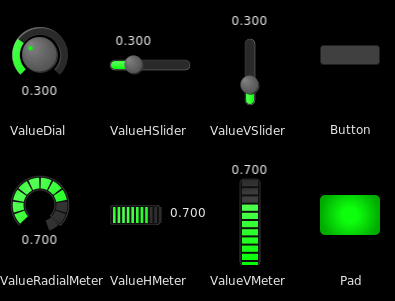
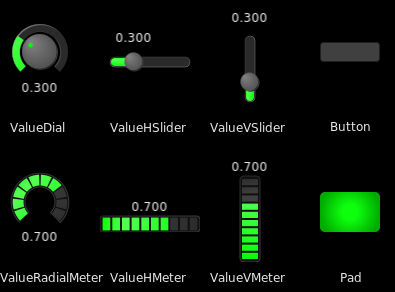
Multiple fixes in meter widgets * Display ValueHMeter value on top (similiar to ValueHSlider) * Fix addition of rounded doubles bug * More logic in displayed steps (0.0: no step visible) * Demos adapted * New screenshots

diff --git a/BWidgets/Draws/Ergo/drawVMeter.hpp b/BWidgets/Draws/Ergo/drawVMeter.hpp
@@ -24,16 +24,16 @@
 #include "../../../BStyles/Types/Color.hpp"
 
 /**
- *  @brief  Draws a segmented two colors vertical pseudo 3d bar in a Cairo
- *  context. 
+ *  @brief  Draws a segmented two colors vertical pseudo 3d meter bar in a
+ *  Cairo context. 
  *  @param cr  Cairo context.
  *  @param x0  X position.
  *  @param y0  Y position.
  *  @param width  Bar width.
  *  @param height  Bar height.
- *  @param min  Start of activated (highlighted) part of the arc. Relative
+ *  @param min  Start of activated (highlighted) part of the meter. Relative
  *  value [0..1].
- *  @param max  End of activated (highlighted) part of the arc. Relative
+ *  @param max  End of activated (highlighted) part of the meter. Relative
  *  value [0..1].
  *  @param step  Size of each segment.
  *  @param loColor  RGBA color for the low values of the activated part.
@@ -46,7 +46,7 @@ inline void drawVMeter    (cairo_t* cr, const double x0, const double y0, const 
                              const BStyles::Color loColor, const BStyles::Color hiColor, std::function<double(const double &)> gradient, 
                              const BStyles::Color bgColor)
 {
-
+    const int nrSteps = (step > 0 ? std::ceil (1.0 / step) : 10);
     const double dy = (height - 0.2 * width) * step;
     const BStyles::Color fgHi = loColor.illuminate (BStyles::Color::illuminated);
     const BStyles::Color fgLo = loColor;
@@ -88,9 +88,10 @@ inline void drawVMeter    (cairo_t* cr, const double x0, const double y0, const 
         cairo_pattern_add_color_stop_rgba (bgPat, 0.25, CAIRO_RGBA(bgHi));
         cairo_pattern_add_color_stop_rgba (bgPat, 1, CAIRO_RGBA(bgLo));
 
-        for (double v = 0; v < 1.0; v += step)
+        for (int i = 0; i < nrSteps; ++i)
         {
-            if ((v >= min) && ( v <= max)) 
+            const double v = static_cast<double>(i) / static_cast<double>(nrSteps);
+            if ((v >= min) && (v < max)) 
             {
                 if ((fgHi != hiHi) || (fgLo != hiLo))
                 {
@@ -122,8 +123,8 @@ inline void drawVMeter    (cairo_t* cr, const double x0, const double y0, const 
 
             const double y = v * (height - 0.2 * width);
 
-            if (dy < 3.0) cairo_rectangle (cr, x0 + 0.1 * width , y0 + height - 0.1 * width - y, width - 0.2 * width, dy);
-            else cairo_rectangle (cr, x0 + 0.1 * width, y0 + height - 0.1 * width - y - 1.0, width - 0.2 * width, dy - 2.0);
+            if (dy < 3.0) cairo_rectangle (cr, x0 + 0.1 * width , y0 + height - 0.1 * width - y - dy, width - 0.2 * width, dy);
+            else cairo_rectangle (cr, x0 + 0.1 * width, y0 + height - 0.1 * width - y - dy + 1.0, width - 0.2 * width, dy - 2.0);
             cairo_fill (cr);
         }
 

diff --git a/BWidgets/Draws/Oops/drawVMeter.hpp b/BWidgets/Draws/Oops/drawVMeter.hpp
@@ -30,9 +30,9 @@
  *  @param y0  Y position.
  *  @param width  Bar width.
  *  @param height  Bar height.
- *  @param min  Start of activated (highlighted) part of the arc. Relative
+ *  @param min  Start of activated (highlighted) part of the meter. Relative
  *  value [0..1].
- *  @param max  End of activated (highlighted) part of the arc. Relative
+ *  @param max  End of activated (highlighted) part of the meter. Relative
  *  value [0..1].
  *  @param step  Size of each segment.
  *  @param loColor  RGBA color for the low values of the activated part.
@@ -45,7 +45,7 @@ inline void drawVMeter    (cairo_t* cr, const double x0, const double y0, const 
                              const BStyles::Color loColor, const BStyles::Color hiColor, std::function<double(const double &)> gradient, 
                              const BStyles::Color bgColor)
 {
-
+    const int nrSteps = (step > 0 ? std::ceil (1.0 / step) : 10);
     const double dy = (height - 0.2 * width) * step;
     const BStyles::Color fgHi = loColor.illuminate (BStyles::Color::illuminated);
     const BStyles::Color fgLo = loColor;
@@ -68,9 +68,10 @@ inline void drawVMeter    (cairo_t* cr, const double x0, const double y0, const 
         cairo_pattern_add_color_stop_rgba (bgPat, 0.25, CAIRO_RGBA(bgHi));
         cairo_pattern_add_color_stop_rgba (bgPat, 1, CAIRO_RGBA(bgLo));
 
-        for (double v = 0; v < 1.0; v += step)
+        for (int i = 0; i < nrSteps; ++i)
         {
-            if ((v >= min) && ( v <= max)) 
+            const double v = static_cast<double>(i) / static_cast<double>(nrSteps);
+            if ((v >= min) && (v < max)) 
             {
                 if ((fgHi != hiHi) || (fgLo != hiLo))
                 {
@@ -102,8 +103,8 @@ inline void drawVMeter    (cairo_t* cr, const double x0, const double y0, const 
 
             const double y = v * (height - 0.2 * width);
 
-            if (dy < 3.0) cairo_rectangle (cr, x0 + 0.1 * width , y0 + height - 0.1 * width - y, width - 0.2 * width, dy);
-            else cairo_rectangle (cr, x0 + 0.1 * width, y0 + height - 0.1 * width - y - 1.0, width - 0.2 * width, dy - 2.0);
+            if (dy < 3.0) cairo_rectangle (cr, x0 + 0.1 * width , y0 + height - 0.1 * width - y - dy, width - 0.2 * width, dy);
+            else cairo_rectangle (cr, x0 + 0.1 * width, y0 + height - 0.1 * width - y - dy + 1.0, width - 0.2 * width, dy - 2.0);
             cairo_fill (cr);
         }
 

diff --git a/BWidgets/Draws/Ergo/drawHMeter.hpp b/BWidgets/Draws/Ergo/drawHMeter.hpp
@@ -24,16 +24,16 @@
 #include "../../../BStyles/Types/Color.hpp"
 
 /**
- *  @brief  Draws a segmented two colors horizontal pseudo 3d bar in a Cairo
- *  context. 
+ *  @brief  Draws a segmented two colors horizontal pseudo 3d meter bar in a
+ *  Cairo context. 
  *  @param cr  Cairo context.
  *  @param x0  X position.
  *  @param y0  Y position.
  *  @param width  Bar width.
  *  @param height  Bar height.
- *  @param min  Start of activated (highlighted) part of the arc. Relative
+ *  @param min  Start of activated (highlighted) part of the meter. Relative
  *  value [0..1].
- *  @param max  End of activated (highlighted) part of the arc. Relative
+ *  @param max  End of activated (highlighted) part of the meter. Relative
  *  value [0..1].
  *  @param step  Size of each segment.
  *  @param loColor  RGBA color for the low values of the activated part.
@@ -46,7 +46,7 @@ inline void drawHMeter    (cairo_t* cr, const double x0, const double y0, const 
                              const BStyles::Color loColor, const BStyles::Color hiColor, std::function<double(const double &)> gradient, 
                              const BStyles::Color bgColor)
 {
-
+    const int nrSteps = (step > 0 ? std::ceil (1.0 / step) : 10);
     const double dx = (width - 0.2 * height) * step;
     const BStyles::Color fgHi = loColor.illuminate (BStyles::Color::illuminated);
     const BStyles::Color fgLo = loColor;
@@ -88,9 +88,10 @@ inline void drawHMeter    (cairo_t* cr, const double x0, const double y0, const 
         cairo_pattern_add_color_stop_rgba (bgPat, 0.25, CAIRO_RGBA(bgHi));
         cairo_pattern_add_color_stop_rgba (bgPat, 1, CAIRO_RGBA(bgLo));
 
-        for (double v = 0; v < 1.0; v += step)
+        for (int i = 0; i < nrSteps; ++i)
         {
-            if ((v >= min) && (v <= max)) 
+            const double v = static_cast<double>(i) / static_cast<double>(nrSteps);
+            if ((v >= min) && (v < max)) 
             {
                 if ((fgHi != hiHi) || (fgLo != hiLo))
                 {

diff --git a/BWidgets/Draws/Oops/drawHMeter.hpp b/BWidgets/Draws/Oops/drawHMeter.hpp
@@ -31,9 +31,9 @@
  *  @param y0  Y position.
  *  @param width  Bar width.
  *  @param height  Bar height.
- *  @param min  Start of activated (highlighted) part of the arc. Relative
+ *  @param min  Start of activated (highlighted) part of the meter. Relative
  *  value [0..1].
- *  @param max  End of activated (highlighted) part of the arc. Relative
+ *  @param max  End of activated (highlighted) part of the meter. Relative
  *  value [0..1].
  *  @param step  Size of each segment.
  *  @param loColor  RGBA color for the low values of the activated part.
@@ -46,7 +46,7 @@ inline void drawHMeter    (cairo_t* cr, const double x0, const double y0, const 
                              const BStyles::Color loColor, const BStyles::Color hiColor, std::function<double(const double &)> gradient, 
                              const BStyles::Color bgColor)
 {
-
+    const int nrSteps = (step > 0 ? std::ceil (1.0 / step) : 10);
     const double dx = (width - 0.2 * height) * step;
     const BStyles::Color fgHi = loColor.illuminate (BStyles::Color::illuminated);
     const BStyles::Color fgLo = loColor;
@@ -69,9 +69,10 @@ inline void drawHMeter    (cairo_t* cr, const double x0, const double y0, const 
         cairo_pattern_add_color_stop_rgba (bgPat, 0.25, CAIRO_RGBA(bgHi));
         cairo_pattern_add_color_stop_rgba (bgPat, 1, CAIRO_RGBA(bgLo));
 
-        for (double v = 0; v < 1.0; v += step)
+        for (int i = 0; i < nrSteps; ++i)
         {
-            if ((v >= min) && (v <= max)) 
+            const double v = static_cast<double>(i) / static_cast<double>(nrSteps);
+            if ((v >= min) && (v < max)) 
             {
                 if ((fgHi != hiHi) || (fgLo != hiLo))
                 {

diff --git a/BWidgets/Draws/Ergo/drawRMeter.hpp b/BWidgets/Draws/Ergo/drawRMeter.hpp
@@ -58,6 +58,7 @@ inline void drawRMeter    (cairo_t* cr, const double xc, const double yc, const 
                              const BStyles::Color bgColor)
 {
     // Colors used
+    const int nrSteps = (step > 0 ? std::ceil (1.0 / step) : 10);
     const double da = (1.5 * M_PI) * step;
     const double sa = 1.0 / radius;
     const BStyles::Color fgHi = loColor.illuminate (BStyles::Color::illuminated);
@@ -102,9 +103,10 @@ inline void drawRMeter    (cairo_t* cr, const double xc, const double yc, const 
         cairo_pattern_add_color_stop_rgba (bgPat, 0.25, CAIRO_RGBA(bgHi));
         cairo_pattern_add_color_stop_rgba (bgPat, 1, CAIRO_RGBA(bgLo));
 
-        for (double v = 0; v < 1.0; v += step)
+        for (int i = 0; i < nrSteps; ++i)
         {
-            if ((v >= min) && (v <=max)) 
+            const double v = static_cast<double>(i) / static_cast<double>(nrSteps);
+            if ((v >= min) && (v < max)) 
             {
                 if ((fgHi != hiHi) || (fgLo != hiLo))
                 {

diff --git a/BWidgets/Draws/Oops/drawRMeter.hpp b/BWidgets/Draws/Oops/drawRMeter.hpp
@@ -58,6 +58,7 @@ inline void drawRMeter    (cairo_t* cr, const double xc, const double yc, const 
                              const BStyles::Color bgColor)
 {
     // Colors used
+    const int nrSteps = (step > 0 ? std::ceil (1.0 / step) : 10);
     const double da = (1.5 * M_PI) * step;
     const double sa = 1.0 / radius;
     const BStyles::Color fgHi = loColor.illuminate (BStyles::Color::illuminated);
@@ -81,9 +82,10 @@ inline void drawRMeter    (cairo_t* cr, const double xc, const double yc, const 
         cairo_pattern_add_color_stop_rgba (bgPat, 0.25, CAIRO_RGBA(bgHi));
         cairo_pattern_add_color_stop_rgba (bgPat, 1, CAIRO_RGBA(bgLo));
 
-        for (double v = 0; v < 1.0; v += step)
+        for (int i = 0; i < nrSteps; ++i)
         {
-            if ((v >= min) && (v <=max)) 
+            const double v = static_cast<double>(i) / static_cast<double>(nrSteps);
+            if ((v >= min) && (v < max)) 
             {
                 if ((fgHi != hiHi) || (fgLo != hiLo))
                 {

diff --git a/BWidgets/ValueHMeter.hpp b/BWidgets/ValueHMeter.hpp
@@ -281,14 +281,14 @@ inline void ValueHMeter::update ()
 
 	label.setText (display_ (getValue()));
 	label.resize ();
-	label.moveTo (getXOffset() + getEffectiveWidth() - 2.0 * getEffectiveHeight(), label.middle());
+	label.moveTo (label.center(), getYOffset());
 
 	scale_ = BUtilities::Area<> 
 	(
 		getXOffset(), 
-		getYOffset(), 
-		getEffectiveWidth() - 2.5 * getEffectiveHeight(),
-		getEffectiveHeight()
+		getYOffset() + label.getHeight(), 
+		getEffectiveWidth(),
+		getEffectiveHeight() - label.getHeight()
 	);
 
 	Widget::update();

diff --git a/examples/draws.cpp b/examples/draws.cpp
@@ -66,7 +66,7 @@ int main ()
     Label valueRadialMeterLabel(0, 310, 110, 20, "ValueRadialMeter");
     window.add (&valueRadialMeterLabel);
 
-    ValueHMeter valueHMeter (110, 240, 100, 20, 0.7, 0.0, 1.0, 0.1);
+    ValueHMeter valueHMeter (100, 240, 100, 30, 0.7, 0.0, 1.0, 0.1);
     window.add (&valueHMeter);
     Label valueHMeterLabel(110, 310, 100, 20, "ValueHMeter");
     window.add (&valueHMeterLabel);

diff --git a/examples/widgetgallery.cpp b/examples/widgetgallery.cpp
@@ -443,7 +443,7 @@ int main ()
     window.add (&valueRadialMeterLabel);
 
     // ValueHMeter
-    ValueHMeter valueHMeter (1000, 750, 100, 20, 0.9, 0.0, 1.0, 0.1);
+    ValueHMeter valueHMeter (1010, 740, 80, 32, 0.9, 0.0, 1.0, 0.05);
     valueHMeter.setTitle("ValueHMeter");
     valueHMeter.setHiColors (reds);
     valueHMeter.setGradientFunction([] (const double& x) {return x * x;});

diff --git a/README.md b/README.md
@@ -7,7 +7,7 @@ project. This toolkit includes widgets, styles, event handling, device support,
 and internationalization. B.Widgets also takes care about the special needs for
 user interaction elements in music production. B.Widgets uses the PlUgin Graphics Library ([pugl](https://github.com/lv2/pugl)) portability layer.
 
-**Current version:** 1.0.0-beta5
+**Current version:** 1.0.0-beta6
 
 **Pre-release notice:** The B.Widgets toolkit is currently being developed 
 and still not officially released. Thus, there's no stable API yet.

diff --git a/BWidgets/README.md b/BWidgets/README.md
@@ -1224,8 +1224,11 @@ actively loaded, then a default drawing set is used insted.
 
 B.Widgets currently provides by two diffent drawing sets:
 * Ergo (default): Pseudo 3d widget elements
+
   ![ergo](../suppl/Ergo.png)
+  
 * Oops: Simple widget elements used in B.Oops
+
   ![oops](../suppl/Oops.png)
 
 These examples are taken from 
